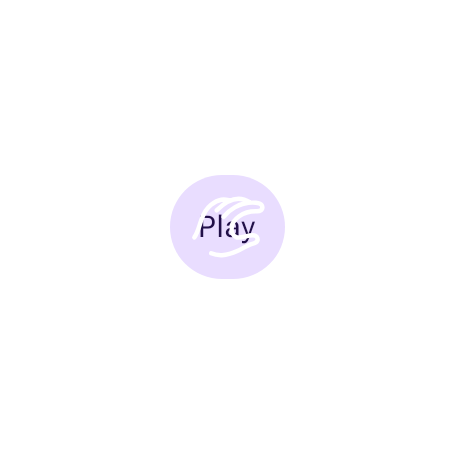
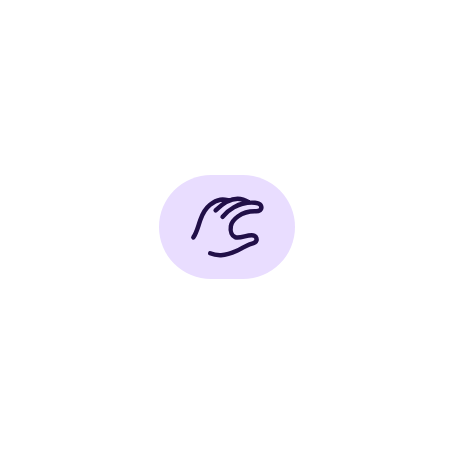
fix(gestures): swap the button content, mirroring the real indicator
The real OneHandedGestureIndicator fades its content out and shows the gesture
animation in its place (a swap, not an overlay). GestureHint's force-show path now
renders that peak frame — content hidden, indicator drawable centred where it was —
instead of compositing the icon on top of visible content.

The sample wraps the button's *content* (the label) rather than the whole button, so
the hint swaps the "Play" label for the gesture icon while the button pill stays put —
the design guide's on-button hint.

Changed region(s): [[0.3392, 0.37, 0.6476, 0.6167], [0.4009, 0.5859, 0.4626, 0.6167], [0.5551, 0.37, 0.5859, 0.4009]]

diff --git a/data/gestures/connector/src/main/kotlin/ee/schimke/composeai/daemon/GestureReporting.kt b/data/gestures/connector/src/main/kotlin/ee/schimke/composeai/daemon/GestureReporting.kt
@@ -3,6 +3,7 @@ package ee.schimke.composeai.daemon
 import androidx.compose.foundation.interaction.Interaction
 import androidx.compose.foundation.interaction.InteractionSource
 import androidx.compose.foundation.interaction.MutableInteractionSource
+import androidx.compose.foundation.layout.Box
 import androidx.compose.foundation.layout.BoxScope
 import androidx.compose.runtime.Composable
 import androidx.compose.runtime.DisposableEffect
@@ -15,6 +16,7 @@ import androidx.compose.runtime.staticCompositionLocalOf
 import androidx.compose.ui.Alignment
 import androidx.compose.ui.Modifier
 import androidx.compose.ui.graphics.Color
+import androidx.compose.ui.graphics.graphicsLayer
 import androidx.wear.compose.material3.LocalContentColor
 import androidx.wear.compose.material3.onehandedgesture.GestureAction
 import androidx.wear.compose.material3.onehandedgesture.GestureIndicatorSize
@@ -114,15 +116,17 @@ fun Modifier.reportedOneHandedGesture(
 /**
  * Wraps [content] with the real Wear [OneHandedGestureIndicator] hint affordance.
  *
- * The hint shows when the gesture emits an `Indicate` interaction on [interactionSource] (on-device
- * cadence) — or, in a preview, when [forceShow] is set or the daemon applied
- * `overrides.gestures.showHints = true` (the seam `@GestureHintPreview` drives). On the force paths
- * the indicator is fed a replay-backed source pre-seeded with an `Indicate` **and** the shipped
- * indicator drawable is composited over the content via [GestureIndicatorIcon]: the interactive
- * `OneHandedGestureIndicator`'s show/hide coroutine settles to hidden during a Robolectric render's
- * pre-roll, so drawing the drawable directly is what makes the hint deterministically visible in a
- * single captured frame. On-device (no override, [forceShow] `false`) the overlay is absent and the
- * real indicator behaves exactly as before.
+ * On-device the hint shows when the gesture emits an `Indicate` interaction on [interactionSource]:
+ * the real [OneHandedGestureIndicator] **fades [content] out and swaps in** the gesture animation in
+ * its place (it is not an overlay — the content underneath is hidden), then fades the content back.
+ *
+ * In a preview [forceShow] is set, or the daemon applied `overrides.gestures.showHints = true` (the
+ * seam `@GestureHintPreview` drives). On that force path the real indicator's show/hide coroutine
+ * settles back to hidden during a Robolectric render's pre-roll, so a still capture never catches it
+ * — instead we render the indicator's **peak frame directly**: [content] faded out and the shipped
+ * indicator drawable ([GestureIndicatorIcon]) centred in its place, matching what the device shows
+ * mid-gesture. On-device (no override, [forceShow] `false`) this path is not taken and the real
+ * indicator behaves exactly as before.
  */
 @Composable
 fun GestureHint(
@@ -136,21 +140,23 @@ fun GestureHint(
 ) {
   val hintsRequested by LocalGestureRegistry.current.hintsShownState
   val forced = forceShow || hintsRequested
-  val forcedSource = rememberForcedGestureHintSource(type)
-  OneHandedGestureIndicator(
-    interactionSource = if (forced) forcedSource else interactionSource,
-    modifier = modifier,
-    gestureIndicatorSize = gestureIndicatorSize,
-    gestureIndicatorTint = gestureIndicatorTint,
-  ) {
-    content()
-    if (forced) {
-      GestureIndicatorIcon(
-        type = type,
-        modifier = Modifier.align(Alignment.Center),
-        tint = gestureIndicatorTint,
-      )
+  if (forced) {
+    // Peak-frame replica of the real indicator's swap: content hidden (alpha 0, still measured so
+    // the layout keeps its size), gesture icon centred where the content was.
+    Box(modifier = modifier, contentAlignment = Alignment.Center) {
+      Box(modifier = Modifier.graphicsLayer { alpha = 0f }, content = content)
+      // `GestureIndicatorSize.size` is library-internal, so use the icon's own default (≈ the
+      // Medium indicator). Callers that need a specific size tint/scale via the icon directly.
+      GestureIndicatorIcon(type = type, tint = gestureIndicatorTint)
     }
+  } else {
+    OneHandedGestureIndicator(
+      interactionSource = interactionSource,
+      modifier = modifier,
+      gestureIndicatorSize = gestureIndicatorSize,
+      gestureIndicatorTint = gestureIndicatorTint,
+      content = content,
+    )
   }
 }
 

diff --git a/samples/wear/src/main/kotlin/com/example/samplewear/GestureHintPreviews.kt b/samples/wear/src/main/kotlin/com/example/samplewear/GestureHintPreviews.kt
@@ -22,8 +22,10 @@ import ee.schimke.composeai.daemon.reportedOneHandedGesture
 import ee.schimke.composeai.preview.GestureHintPreview
 
 /**
- * A normal Wear media screen — the double-pinch primary action toggles play/pause, and the
- * `GestureHint` wraps the button so the real `OneHandedGestureIndicator` can flash on-device.
+ * A normal Wear media screen — the double-pinch primary action toggles play/pause. The `GestureHint`
+ * wraps the button's **content** (the label), so the real `OneHandedGestureIndicator` swaps the label
+ * for the gesture animation on-device while the button itself stays put — the design guide's
+ * on-button hint.
  *
  * Crucially this is **ordinary app code**: there is no preview-only flag, no capture mode, nothing
  * that "sets up" a hint. `GestureHint` reads the connector's force-show state, so whether the hint
@@ -37,19 +39,21 @@ fun MediaGestureScreen() {
   val interactionSource = remember { MutableInteractionSource() }
   ScreenScaffold {
     Box(modifier = Modifier.fillMaxSize(), contentAlignment = Alignment.Center) {
-      GestureHint(type = GestureType.PRIMARY, interactionSource = interactionSource) {
-        Button(
-          onClick = { playing = !playing },
-          interactionSource = interactionSource,
-          modifier =
-            Modifier.reportedOneHandedGesture(
-              type = GestureType.PRIMARY,
-              label = if (playing) "Pause" else "Play",
-              interactionSource = interactionSource,
-            ) {
-              playing = !playing
-            },
-        ) {
+      Button(
+        onClick = { playing = !playing },
+        interactionSource = interactionSource,
+        modifier =
+          Modifier.reportedOneHandedGesture(
+            type = GestureType.PRIMARY,
+            label = if (playing) "Pause" else "Play",
+            interactionSource = interactionSource,
+          ) {
+            playing = !playing
+          },
+      ) {
+        // Wraps the button's content: on the force path the label is swapped for the gesture icon
+        // while the button pill stays visible.
+        GestureHint(type = GestureType.PRIMARY, interactionSource = interactionSource) {
           Text(if (playing) "Pause" else "Play")
         }
       }
